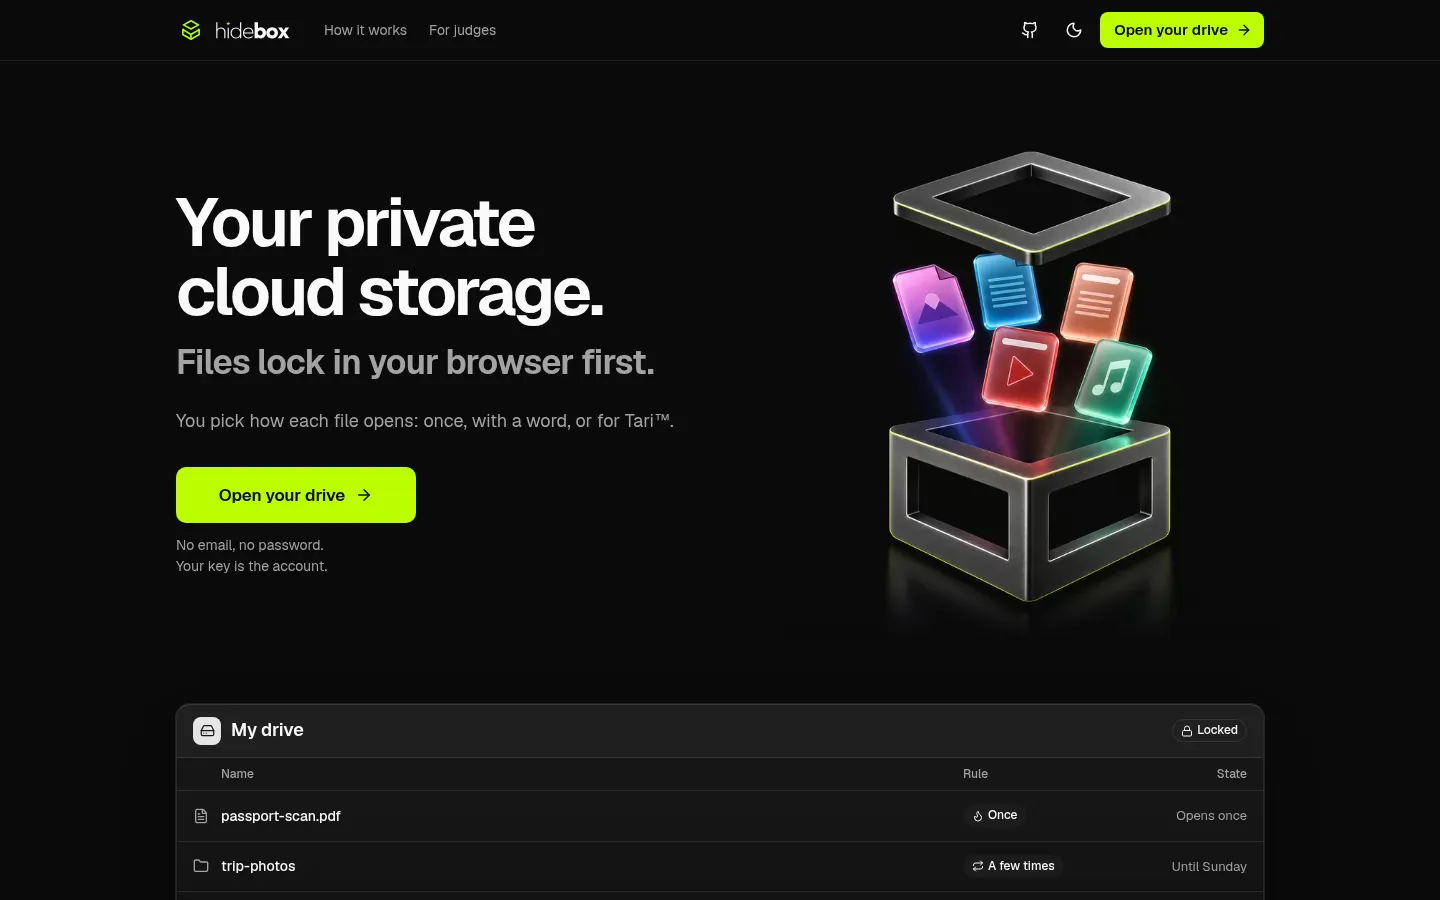
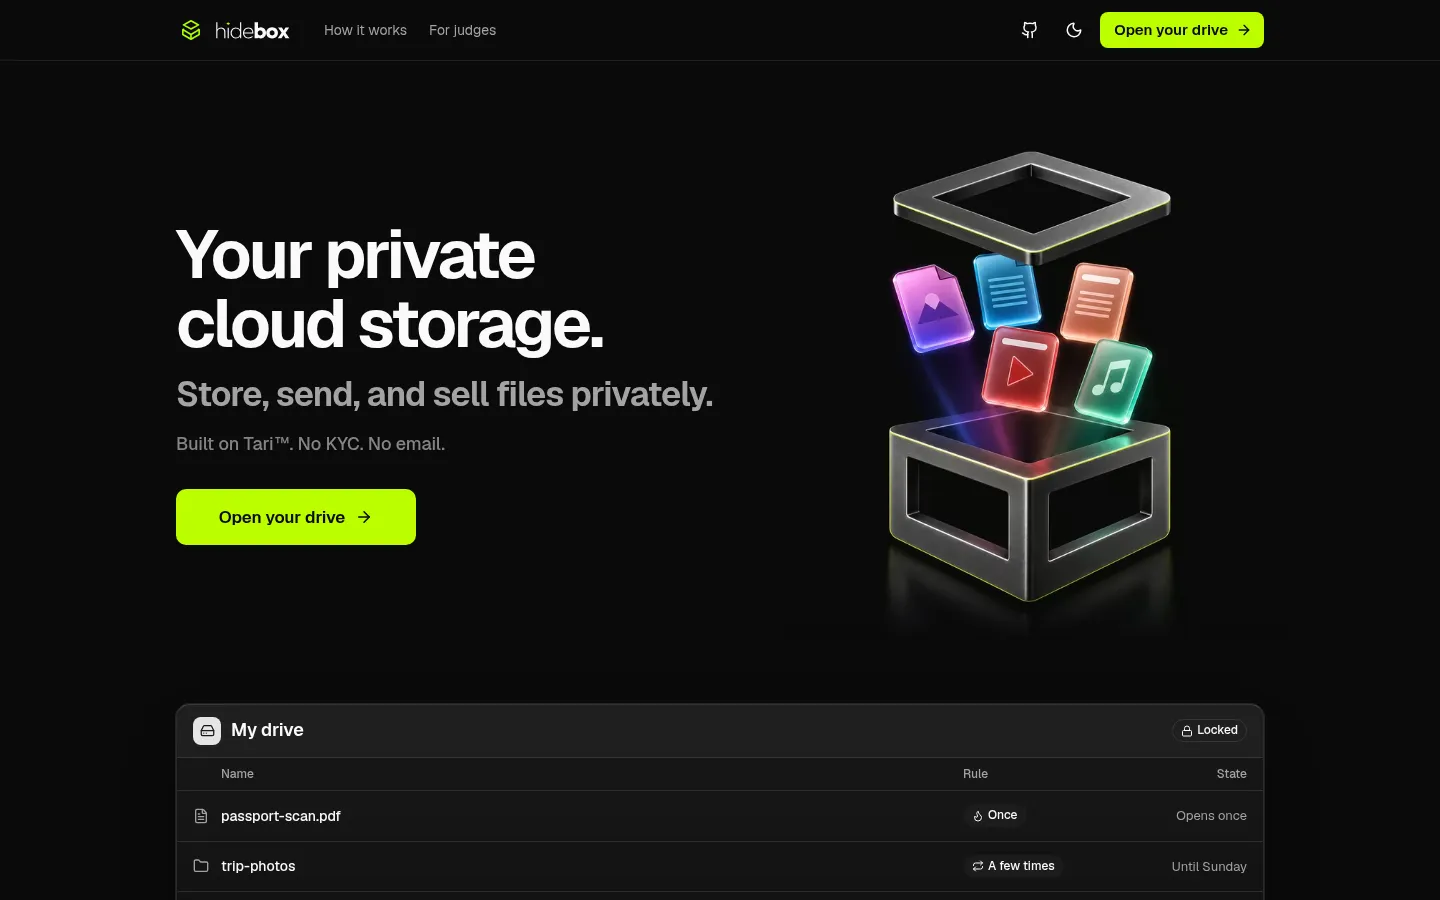
README, its home picture and the repository's social card carry the new tagline

Changed region(s): [[0.125, 0.2178, 0.5, 0.6533]]

diff --git a/docs/evidence/2026-10-19/brand-kit-1/social-preview.html b/docs/evidence/2026-10-19/brand-kit-1/social-preview.html
@@ -1,8 +1,9 @@
 <!doctype html>
 <!-- SPDX-License-Identifier: MIT -->
 <!-- The repository's social card (docs/media/social-preview.png, 1280 × 640), drawn by shots_brand.py beside this file:
-     the kit's lockup (the sprite's open box and wordmark, put in by the script), the home's headline and line, the
-     address, and the hero's still, on the ink with the field's 48 px grid faded out from the words. -->
+     the kit's lockup (the sprite's open box and wordmark, put in by the script), the home's three lines as the hero sets
+     them (the headline, its grey second line, a third line smaller and dimmer; docs/review/tagline-2.md), the address,
+     and the hero's still, on the ink with the field's 48 px grid faded out from the words. -->
 <html lang="en">
 <head>
 <meta charset="utf-8">
@@ -16,15 +17,15 @@ body { position: relative; overflow: hidden; background: #0A0A0A; color: #FAFAFA
   background: linear-gradient(to right, rgb(146 193 36 / .11) 1px, transparent 1px), linear-gradient(to bottom, rgb(146 193 36 / .11) 1px, transparent 1px);
   background-size: 48px 48px; background-position: 47px 47px;
   -webkit-mask-image: radial-gradient(ellipse 62% 78% at 30% 50%, #000 0 30%, transparent 92%); }
-.copy { position: absolute; left: 88px; top: 105px; width: 560px; }
+.copy { position: absolute; left: 88px; top: 112px; width: 600px; }
 .lockup { display: flex; align-items: center; gap: 15px; }
 .tile { display: grid; place-items: center; width: 52px; height: 52px; border-radius: 11.4px; background: #0A0A0A; color: #ACFF00; }
 .tile svg { width: 36.9px; height: 41.1px; }   /* the favicon's box: 0.86 of its 32 units, centred */
 .word { display: block; width: 158.9px; height: 36.5px; color: #FAFAFA; }
-h1, .line { font-size: 64px; line-height: 1.0; font-weight: 650; letter-spacing: -.045em; text-wrap: balance; }
-h1 { margin-top: 56px; }
-.line { margin-top: 10px; color: #A3A3A3; }
-.where { position: absolute; left: 88px; top: 506px; display: flex; align-items: center; gap: 14px; font-size: 24px; font-weight: 500; letter-spacing: -.01em; }
+h1 { margin-top: 56px; font-size: 64px; line-height: 1.0; font-weight: 650; letter-spacing: -.045em; text-wrap: balance; }
+.sub { margin-top: 22px; font-size: 34px; line-height: 1.2; font-weight: 600; letter-spacing: -.03em; color: #A3A3A3; }
+.third { margin-top: 12px; font-size: 26px; line-height: 1.3; font-weight: 500; letter-spacing: -.01em; color: #858585; }
+.where { position: absolute; left: 88px; top: 500px; display: flex; align-items: center; gap: 14px; font-size: 24px; font-weight: 500; letter-spacing: -.01em; }
 .where::before { content: ""; width: 10px; height: 10px; border-radius: 50%; background: #BCFE00; }
 .still { position: absolute; left: 674px; top: 60px; width: 520px; height: 520px;
   -webkit-mask-image: linear-gradient(to bottom, #000 86%, transparent); }
@@ -36,7 +37,8 @@ h1 { margin-top: 56px; }
 <div class="copy">
   <div class="lockup"><span class="tile"><svg viewBox="2.801 1.801 26.399 29.399"><use href="#i-hidebox"/></svg></span><svg class="word" viewBox="-0.5 -0.5 148 34"><use href="#i-wordmark"/></svg></div>
   <h1>Your private cloud storage.</h1>
-  <p class="line">Files lock in your browser first.</p>
+  <p class="sub">Store, send, and sell files privately.</p>
+  <p class="third">Built on Tari™. No KYC. No email.</p>
 </div>
 <p class="where">hidebox.app</p>
 <img class="still" src="../../../../web/site/media/v3/hero-1024.webp" alt="" width="520" height="520">

diff --git a/README.md b/README.md
@@ -3,9 +3,8 @@
 
 <h1><img src="docs/media/hidebox-lockup-card.svg" width="268" height="108" alt="hidebox"></h1>
 
-**Your private cloud storage. Files lock in your browser first.**
-
-You pick how each file opens: once, with a word, or for Tari™.
+**Your private cloud storage. Store, send, and sell files privately.**<br>
+Built on Tari™. No KYC. No email.
 
 [**Open your drive**](https://hidebox.app) · [For judges](https://hidebox.app/judges) · [How it works](https://hidebox.app/how) · [Docs](docs/README.md)
 
@@ -15,7 +14,7 @@ You pick how each file opens: once, with a word, or for Tari™.
 
 </div>
 
-<a href="https://hidebox.app"><img src="docs/media/home.webp" alt="The hidebox home page: Your private cloud storage. Files lock in your browser first."></a>
+<a href="https://hidebox.app"><img src="docs/media/home.webp" alt="The hidebox home page: Your private cloud storage. Store, send, and sell files privately. Built on Tari. No KYC. No email."></a>
 
 ## Try it in 2 minutes
 
@@ -26,6 +25,8 @@ You pick how each file opens: once, with a word, or for Tari™.
 Both judge tracks, step by step: [/judges](https://hidebox.app/judges). The long tour: [docs/overview.md](docs/overview.md).
 
 ## How it works
+
+Files lock in your browser first. You pick how each file opens: once, with a word, or for Tari.
 
 <img src="docs/media/how-it-works.svg" alt="Four parts. Your browser locks every file. Our server gets scrambled noise. Never the key. Whoever has the link opens it by its rule. When a file leaves your drive, we write that on the Tari chain, for anyone to check. The key hides in the link, after the # sign.">
 
